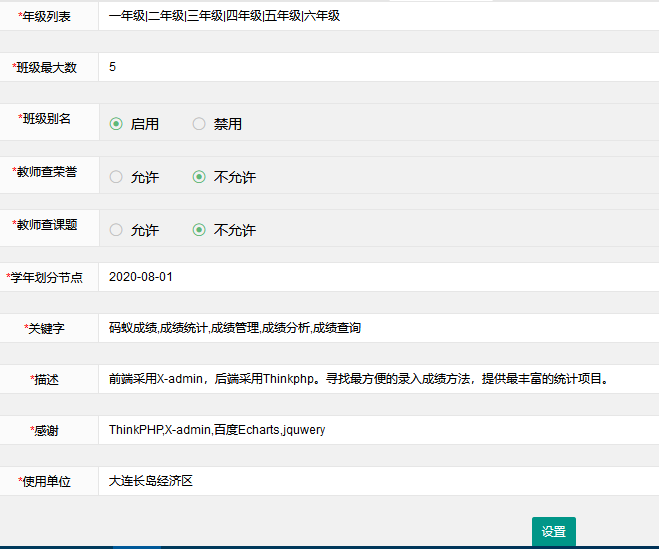
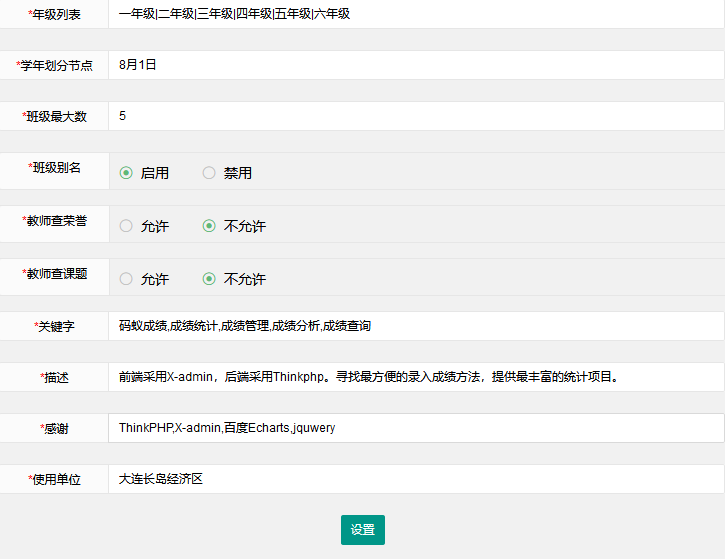
0

diff --git a/database/seeds/Rule.php b/database/seeds/Rule.php
@@ -1062,7 +1062,7 @@ class Rule extends Seeder
             ['id' => 701
                 ,'title' => '类别管理'
                 ,'name' => 'system/category/index'
-                ,'paixu' => 1
+                ,'paixu' => 3
                 ,'ismenu'  => 1
                 ,'pid'  => 7
                 ,'url' => '/system/category'
@@ -1112,7 +1112,7 @@ class Rule extends Seeder
             ['id' => 702
                 ,'title' => '单位管理'
                 ,'name' => 'system/school/index'
-                ,'paixu' => 2
+                ,'paixu' => 1
                 ,'ismenu'  => 1
                 ,'pid'  => 7
                 ,'url' => '/system/school'
@@ -1168,7 +1168,7 @@ class Rule extends Seeder
             ['id' => 703
                 ,'title' => '文件管理'
                 ,'name' => 'system/fields/index'
-                ,'paixu' => 3
+                ,'paixu' => 2
                 ,'ismenu'  => 1
                 ,'pid'  => 7
                 ,'url' => '/system/file'
@@ -1188,7 +1188,7 @@ class Rule extends Seeder
             ['id' => 704
                 ,'title' => '数据备份'
                 ,'name' => 'system/backup/index'
-                ,'paixu' => 11
+                ,'paixu' => 4
                 ,'ismenu'  => 1
                 ,'pid'  => 7
                 ,'url' => '/system/backup/index'
@@ -1209,7 +1209,7 @@ class Rule extends Seeder
             ['id' => 705
                 ,'title' => '系统设置'
                 ,'name' => 'system/systembase/edit'
-                ,'paixu' => 10
+                ,'paixu' => 5
                 ,'ismenu'  => 1
                 ,'pid'  => 7
                 ,'url' => '/system/'

diff --git a/database/seeds/SystemBase.php b/database/seeds/SystemBase.php
@@ -23,7 +23,7 @@ class SystemBase extends Seeder
             'thinks'        =>  'ThinkPHP，X-admin，百度Echarts',
             'danwei'        =>  '大连长岛经济区',
             'gradelist'     =>  '一年级|二年级|三年级|四年级|五年级|六年级',
-            'classmax'      =>  30,
+            'classmax'      =>  5,
             'classalias'    => 0
         ];
         // 保存数据
